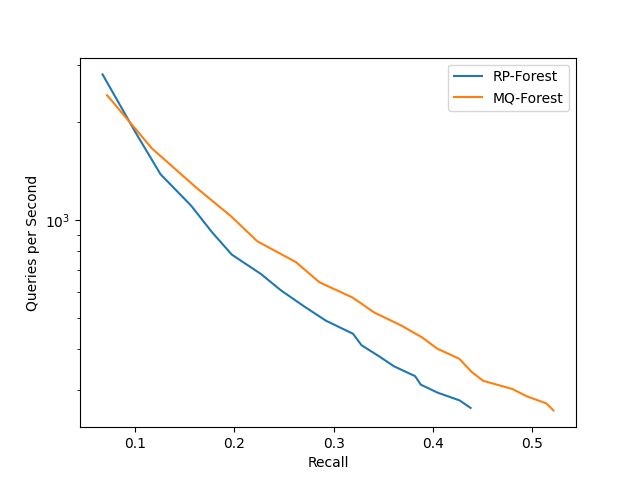
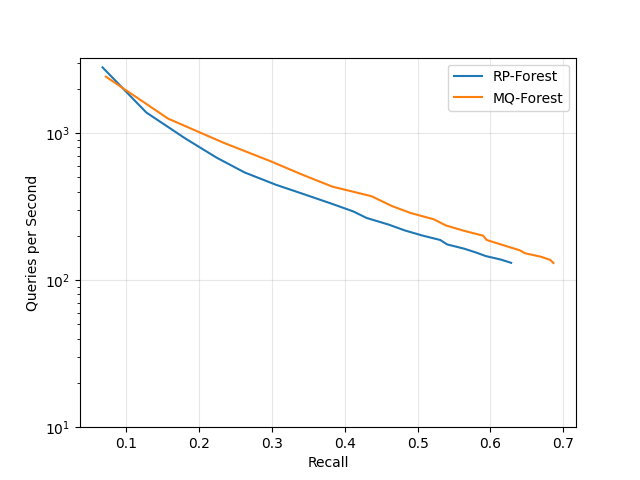
Some results

diff --git a/redo_graph.py b/redo_graph.py
@@ -1,0 +1,50 @@
+import argparse
+import json
+import numpy as np
+from matplotlib import pyplot as plt
+
+
+def save_graph(out_path, static_recalls, dynamic_recalls, static_times, dynamic_times):
+    plt.plot(static_recalls, static_times, label="RP-Forest")
+    plt.plot(dynamic_recalls, dynamic_times, label="MQ-Forest")
+    
+    plt.yscale('log')
+    
+    plt.grid(True, alpha=0.3, which='both')
+    plt.minorticks_on()
+    
+    plt.ylim(bottom=10**2)
+    
+    plt.xlabel("Recall")
+    plt.ylabel("Queries per Second")
+    
+    plt.legend()
+    plt.savefig(out_path)
+    plt.close()
+
+
+def main():
+    parser = argparse.ArgumentParser(description='Regenerate graph from experiment JSON output')
+    parser.add_argument('input_json', type=str, help='Path to input JSON file')
+    parser.add_argument('output_file', type=str, help='Path to output graph file')
+    
+    args = parser.parse_args()
+    
+    # Load JSON data
+    with open(args.input_json, 'r') as f:
+        data = json.load(f)
+    
+    # Extract data arrays
+    static_recalls = np.array(data['static_recalls'])
+    dynamic_recalls = np.array(data['dynamic_recalls'])
+    static_qps = np.array(data['static_qps'])
+    dynamic_qps = np.array(data['dynamic_qps'])
+    
+    # Generate graph
+    save_graph(args.output_file, static_recalls, dynamic_recalls, static_qps, dynamic_qps)
+    
+    print(f"Graph saved to {args.output_file}")
+
+
+if __name__ == "__main__":
+    main()